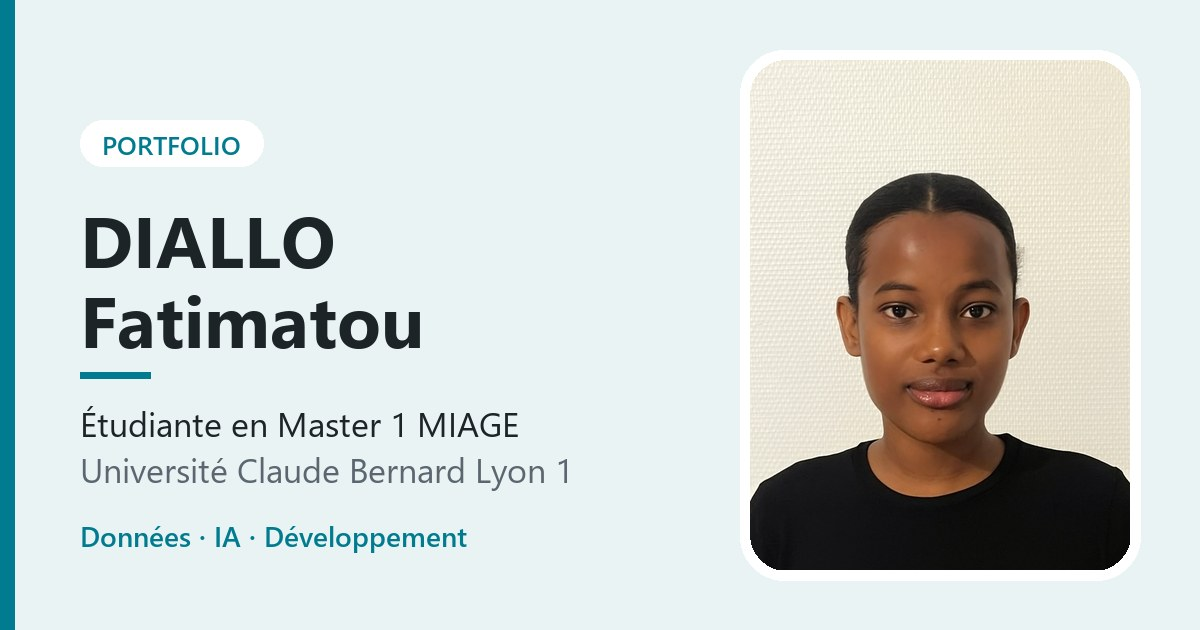
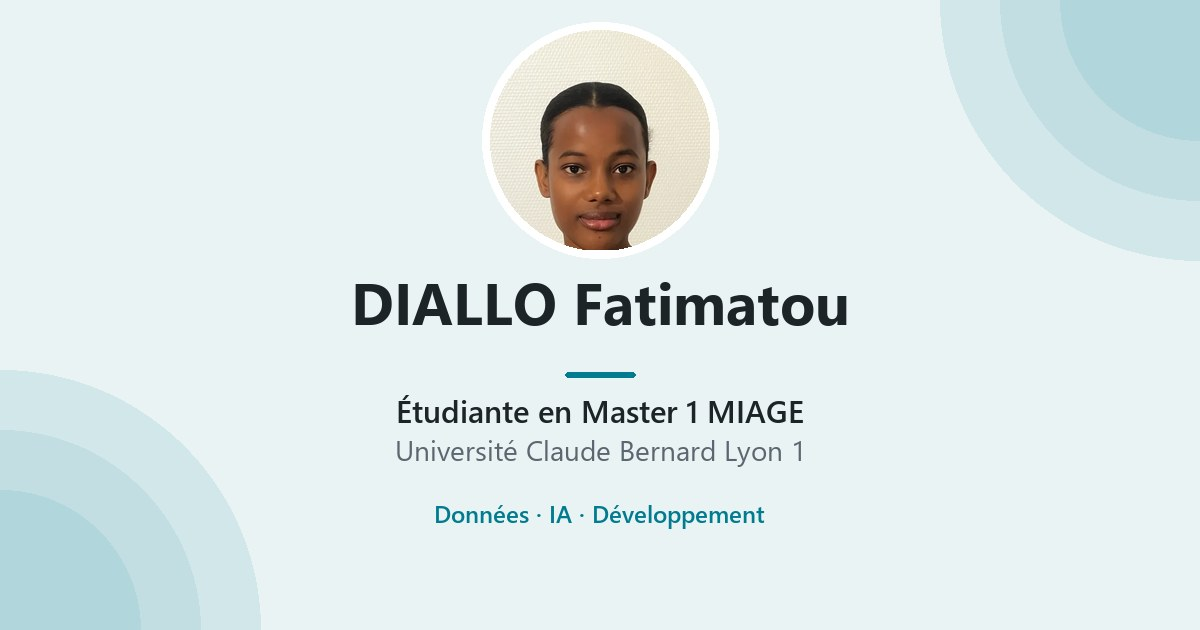
Image d'aperçu centrée pour éviter le recadrage

diff --git a/index.html b/index.html
@@ -19,7 +19,7 @@
     <meta property="og:url" content="https://fatima-d-hub.github.io/portfolio/">
     <meta property="og:title" content="Diallo Fatimatou | Portfolio">
     <meta property="og:description" content="Étudiante en Master 1 MIAGE à l’Université Claude Bernard Lyon 1 : analyse de données, intelligence artificielle et développement. Recherche un stage (mai 2027) et une alternance pour le M2.">
-    <meta property="og:image" content="https://fatima-d-hub.github.io/portfolio/ressources/image/og-image.jpg">
+    <meta property="og:image" content="https://fatima-d-hub.github.io/portfolio/ressources/image/og-image.jpg?v=2">
     <meta property="og:image:width" content="1200">
     <meta property="og:image:height" content="630">
     <meta property="og:image:alt" content="Portfolio de Diallo Fatimatou, étudiante en Master 1 MIAGE">
